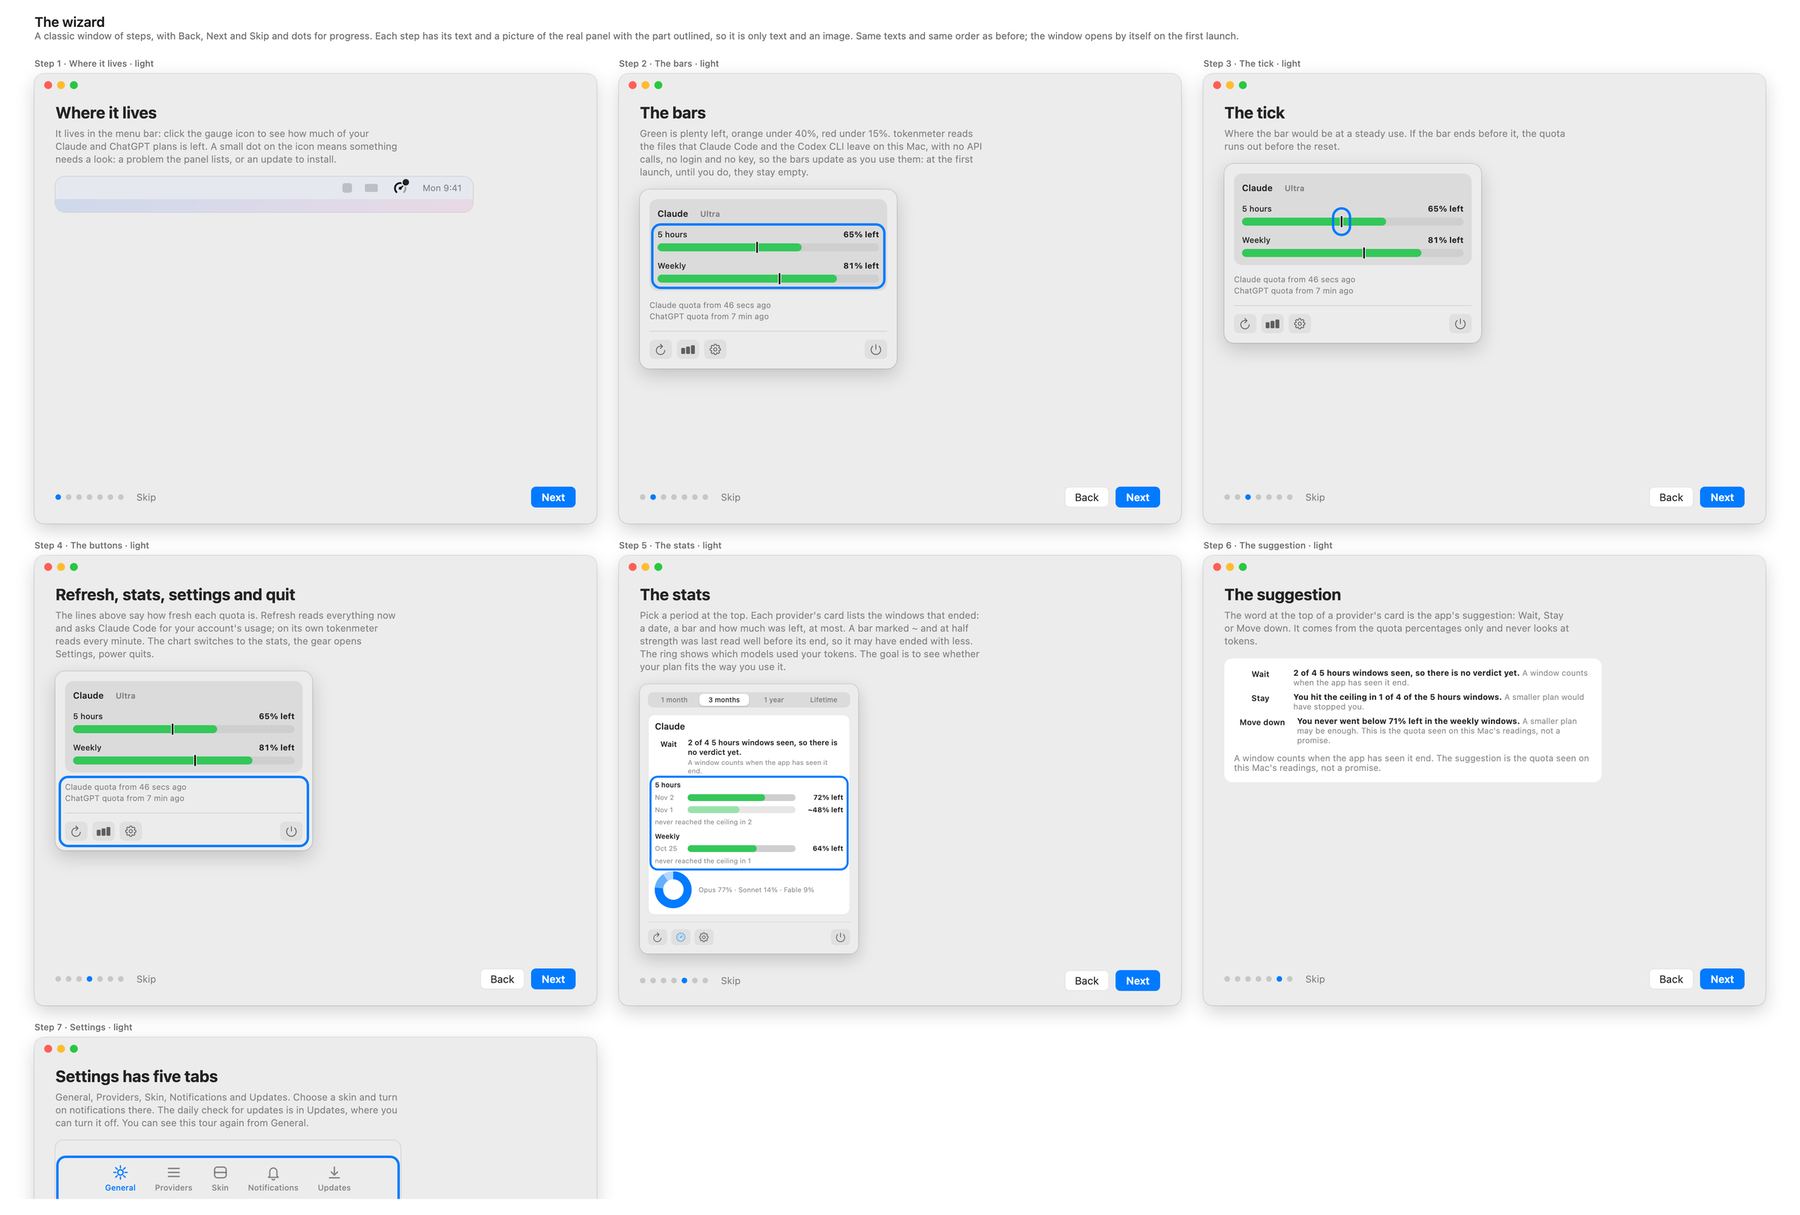
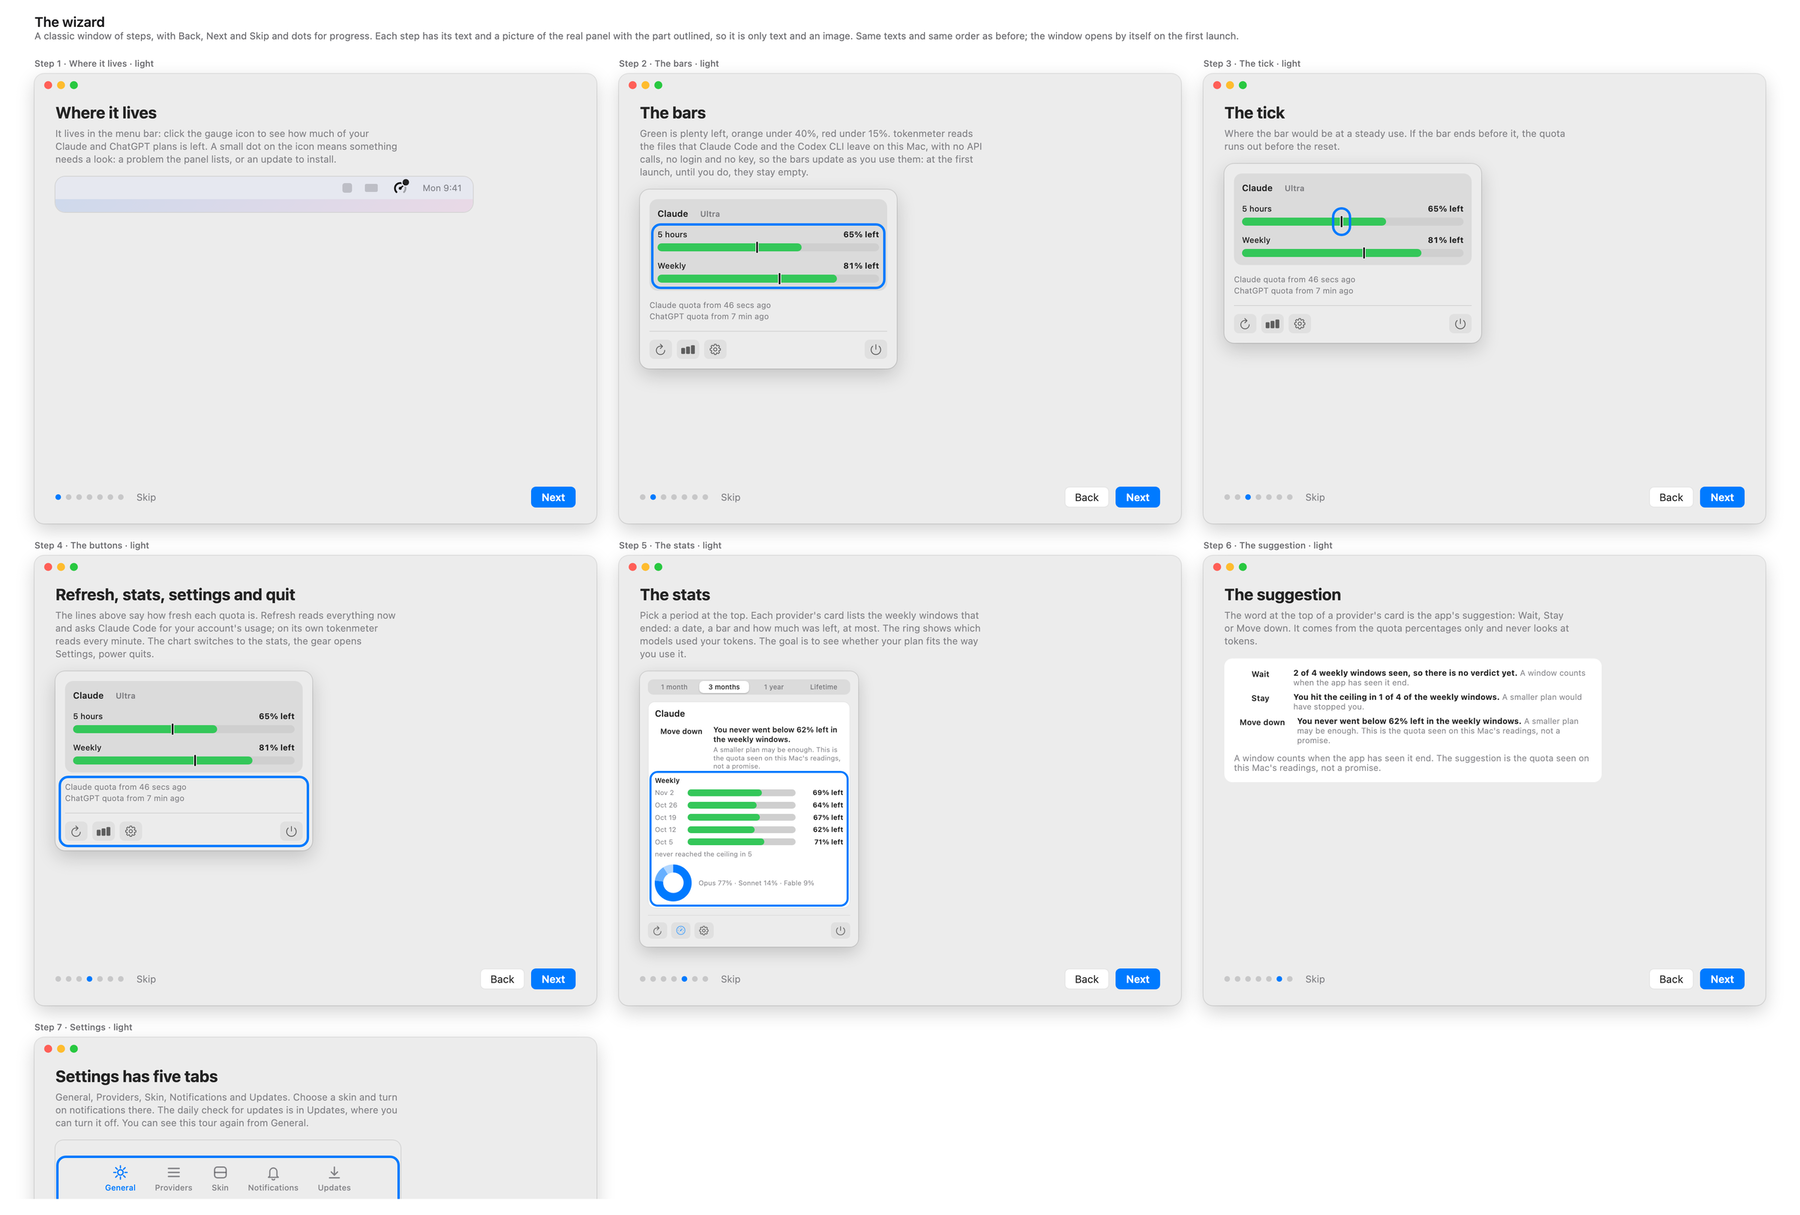
docs(features): the stats pages of the welcome show weekly windows only

Changed region(s): [[0.3422, 0.4872, 0.56, 0.7918], [0.7467, 0.5481, 0.8711, 0.6091], [0.6222, 0.7918, 0.6533, 0.8222]]

diff --git a/docs/features/2026-11-03-welcome-tour/proposal.md b/docs/features/2026-11-03-welcome-tour/proposal.md
@@ -20,15 +20,15 @@ implemented; this page is what stays. **Every number in the images is a sample.*
 Each page has a title, a short text and a picture of the real panel with the part outlined. Back, Next and Skip are in the footer, with dots for
 progress; the last page has Done.
 
-| Page               | What it says                                                                                                                                                                                                                                                                                               | From                              |
-| :----------------- | :--------------------------------------------------------------------------------------------------------------------------------------------------------------------------------------------------------------------------------------------------------------------------------------------------------- | :-------------------------------- |
-| 1 · Where it lives | It lives in the menu bar: click the gauge icon to see how much of the Claude and ChatGPT plans is left. A small dot on the icon means something needs a look: a problem the panel lists, or an update to install.                                                                                          | the app's own dot                 |
-| 2 · The bars       | Green is plenty left, orange under 40%, red under 15%. It reads the files Claude Code and the Codex CLI leave on this Mac, with no API calls, no login and no key, so the bars update as they are used: empty at first.                                                                                    | [Bars](../../use/bars.md)         |
-| 3 · The tick       | Where the bar would be at a steady use; if the bar ends before it, the quota runs out before the reset.                                                                                                                                                                                                    | [Bars](../../use/bars.md)         |
-| 4 · The buttons    | The two lines say how fresh each quota is. Refresh reads now and asks Claude Code for the account's usage; the chart switches to the stats; the gear opens Settings; power quits.                                                                                                                          | the code of `Meter.refresh`       |
-| 5 · The stats      | Pick a period at the top. Each provider's card lists the windows that ended: a date, a bar and how much was left, at most. A bar marked ~ and at half strength was read well before its end, so it may have ended with less. The ring shows which models used the tokens, and only those this Mac counted. | [Stats](../../use/stats.md)       |
-| 6 · The suggestion | The word at the top of a card is the app's suggestion: Wait, Stay or Move down. It comes from the quota percentages only and never looks at tokens.                                                                                                                                                        | [Stats](../../use/stats.md)       |
-| 7 · Settings       | The five tabs: General, Providers, Skin, Notifications, Updates. The daily check for updates is in Updates, where it can be turned off. The tour can be seen again from General.                                                                                                                           | [Settings](../../use/settings.md) |
+| Page               | What it says                                                                                                                                                                                                                                                                                                                    | From                              |
+| :----------------- | :------------------------------------------------------------------------------------------------------------------------------------------------------------------------------------------------------------------------------------------------------------------------------------------------------------------------------ | :-------------------------------- |
+| 1 · Where it lives | It lives in the menu bar: click the gauge icon to see how much of the Claude and ChatGPT plans is left. A small dot on the icon means something needs a look: a problem the panel lists, or an update to install.                                                                                                               | the app's own dot                 |
+| 2 · The bars       | Green is plenty left, orange under 40%, red under 15%. It reads the files Claude Code and the Codex CLI leave on this Mac, with no API calls, no login and no key, so the bars update as they are used: empty at first.                                                                                                         | [Bars](../../use/bars.md)         |
+| 3 · The tick       | Where the bar would be at a steady use; if the bar ends before it, the quota runs out before the reset.                                                                                                                                                                                                                         | [Bars](../../use/bars.md)         |
+| 4 · The buttons    | The two lines say how fresh each quota is. Refresh reads now and asks Claude Code for the account's usage; the chart switches to the stats; the gear opens Settings; power quits.                                                                                                                                               | the code of `Meter.refresh`       |
+| 5 · The stats      | Pick a period at the top. Each provider's card lists the weekly windows that ended: a date, a bar and how much was left, at most. The ring shows which models used the tokens, and only those this Mac counted. The 5-hour windows are not listed for now: several end in one day and how to show that is still to be designed. | [Stats](../../use/stats.md)       |
+| 6 · The suggestion | The word at the top of a card is the app's suggestion: Wait, Stay or Move down. It comes from the quota percentages only and never looks at tokens.                                                                                                                                                                             | [Stats](../../use/stats.md)       |
+| 7 · Settings       | The five tabs: General, Providers, Skin, Notifications, Updates. The daily check for updates is in Updates, where it can be turned off. The tour can be seen again from General.                                                                                                                                                | [Settings](../../use/settings.md) |
 
 ## What stays true
 
